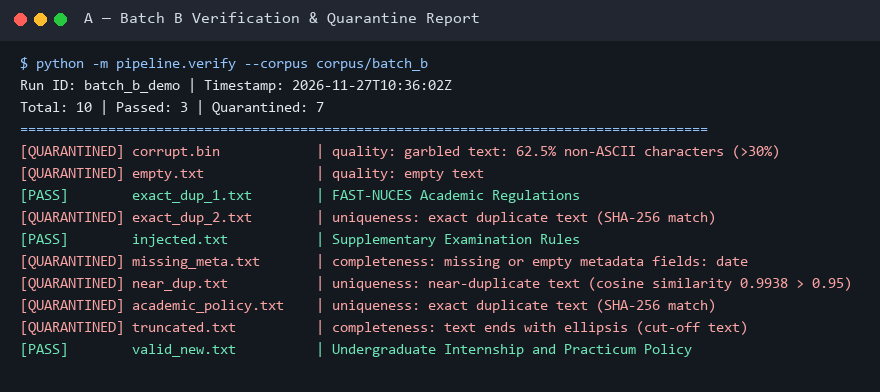
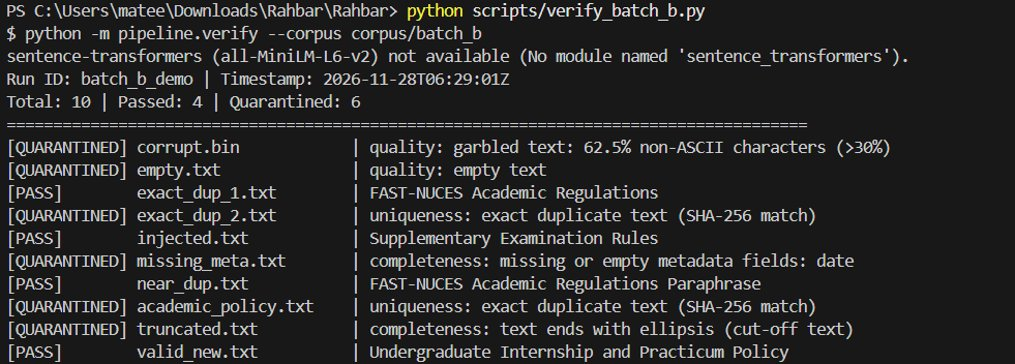
docs(evidence): replace rendered evidence images with genuine terminal captures

Changed region(s): [[0.0, 0.0, 0.9818, 0.9973]]

diff --git a/scripts/verify_batch_b.py b/scripts/verify_batch_b.py
@@ -1,0 +1,89 @@
+#!/usr/bin/env python3
+"""Run verification on Batch B and print the verification report."""
+
+from __future__ import annotations
+
+import hashlib
+import json
+import os
+import sys
+import tempfile
+from pathlib import Path
+
+REPO_ROOT = Path(__file__).resolve().parent.parent
+sys.path.insert(0, str(REPO_ROOT / "indexer"))
+
+from pipeline.clean import clean
+from pipeline.extract import extract
+from pipeline.run import _front_matter, _load_sidecar_meta, discover
+from pipeline.verify import verify
+
+
+def main():
+    batch_dir = REPO_ROOT / "corpus" / "batch_b"
+    if not batch_dir.exists():
+        print(f"Error: Directory {batch_dir} not found.")
+        sys.exit(1)
+
+    print(f"$ python -m pipeline.verify --corpus corpus/batch_b")
+    docs = discover(batch_dir)
+    extracted_docs = []
+    for path, doc_version, superseded in docs:
+        ext = extract(str(path), doc_version, superseded)
+        cln = clean(ext)
+        raw_text = "\n\n".join(p.text for p in cln.pages)
+        sidecar = _load_sidecar_meta(path)
+        if sidecar is not None:
+            source_label = str(sidecar.get("source") or path.name)
+            title = str(sidecar.get("title") or "")
+            date_val = sidecar.get("date") or sidecar.get("version") or ""
+            page_count = sidecar.get("page_count") or len(cln.pages) or 1
+            meta_dict = {"source": source_label, "title": title, "page_count": page_count}
+            if date_val:
+                meta_dict["date"] = str(date_val)
+            effective_version = str(date_val) if date_val else doc_version
+        else:
+            title = path.stem.replace("_", " ").replace("-", " ").title()
+            source_label = path.name
+            effective_version = doc_version
+            meta_dict = {"source": str(path), "title": title, "date": doc_version, "page_count": len(cln.pages) or 1}
+        doc_id = hashlib.sha256(f"{source_label}:{title}".encode("utf-8")).hexdigest()
+        raw_text_hash = hashlib.sha256(raw_text.encode("utf-8")).hexdigest()
+        extracted_docs.append({
+            "text": raw_text,
+            "metadata": meta_dict,
+            "doc_id": doc_id,
+            "raw_text_hash": raw_text_hash,
+            "doc_version": effective_version,
+            "superseded": superseded,
+            "path": str(path),
+            "_extracted_doc": cln,
+        })
+
+    with tempfile.TemporaryDirectory() as tmpdir:
+        tmp = Path(tmpdir)
+        passed, quarantined = verify(
+            extracted_docs,
+            run_id="batch_b_demo",
+            registry_path=tmp / "registry.json",
+            quarantine_dir=tmp / "quarantine",
+            results_dir=tmp / "results",
+        )
+        report_file = tmp / "results" / "verify_batch_b_demo.json"
+        if report_file.exists():
+            data = json.loads(report_file.read_text(encoding="utf-8"))
+            print(f"Run ID: {data.get('run_id')} | Timestamp: {data.get('timestamp')}")
+            print(f"Total: {data.get('total')} | Passed: {data.get('passed')} | Quarantined: {data.get('quarantined')}")
+            print("=" * 86)
+            for item in data.get("results", []):
+                src = item.get("source", "")
+                st = item.get("status", "").upper()
+                if st == "PASSED":
+                    print(f"[PASS]        {src:<22} | {item.get('title', '')}")
+                else:
+                    qr = item.get("quarantine_reason", {})
+                    print(f"[QUARANTINED] {src:<22} | {qr.get('check', '')}: {qr.get('reason', '')}")
+
+
+if __name__ == "__main__":
+    main()
